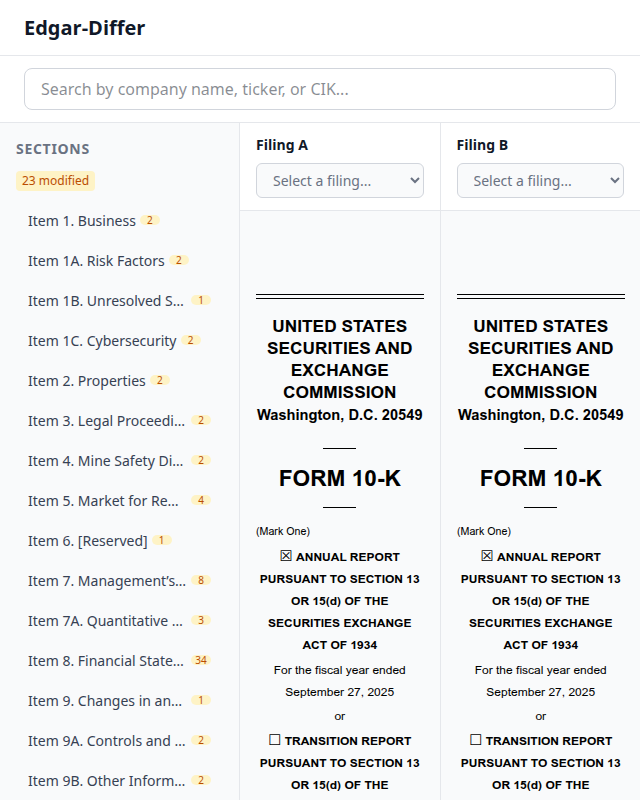
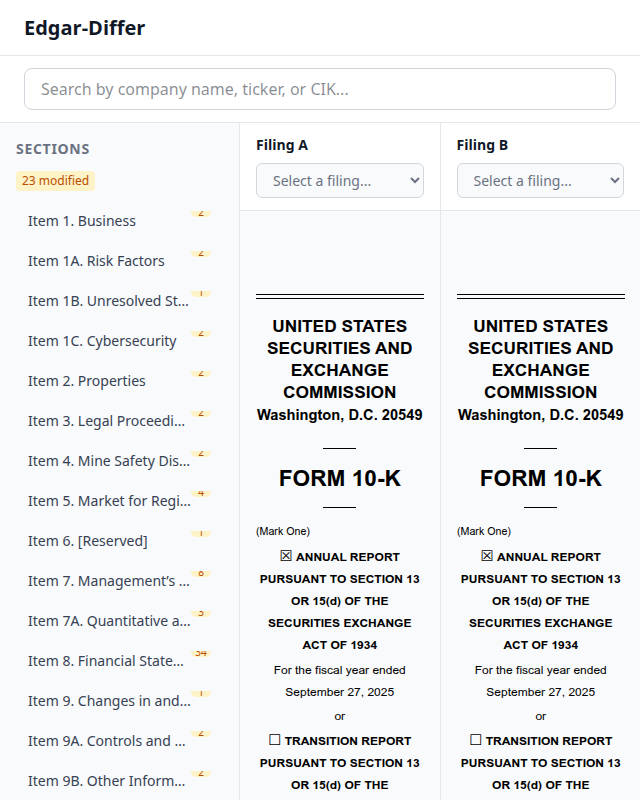
test(US-2.7): re-run UAT after absolute badge positioning fix
All 6 UAT checks pass in a single run. Badges now use absolute
positioning (absolute -top-1 right-0) to float above heading text,
preventing truncation issues. Updated screenshots and UAT doc.

diff --git a/.specs/us-2-7-change-badges/uat.md b/.specs/us-2-7-change-badges/uat.md
@@ -1,6 +1,6 @@
 # US-2.7: Section Change Badges — UAT Results
 
-**Date:** 2026-03-14 (re-run after superscript badge style fix)
+**Date:** 2026-03-14 (re-run after absolute badge positioning fix)
 **Viewport:** 1280x800 (default), 640x800 (narrow)
 **Browser:** Chrome via DevTools MCP
 **Result:** ALL CHECKS PASS
@@ -19,19 +19,19 @@
 
 **Result:** PASS
 
-![Diff summary bar showing "23 modified"](screenshots/01-full-page-1280x800.png)
+![Full page showing diff summary bar and section badges](screenshots/01-full-page-1280x800.png)
 
 ---
 
-## 2. Change Count Badges — Superscript Style
+## 2. Change Count Badges — Absolute Positioned
 
 **Action:** Inspect each section nav button.
 
 **Verify:**
-- Badges are **compact number-only pills** inline next to the heading text
-- Badges appear in **superscript style** — small (`text-[10px]`), vertically offset (`-translate-y-0.5`), rounded pill (`rounded-full`)
-- Heading text truncates with ellipsis to make room for the badge
-- Badge does not wrap or shrink (`shrink-0` on badge element)
+- Badges are **absolutely positioned** at the top-right of each heading (`absolute -top-1 right-0`)
+- Badges float above the heading text, not in the text flow
+- Heading text truncates via `pr-5` padding reservation, giving badges dedicated space
+- Compact number-only pills (`text-[10px]`, `rounded-full`)
 - Each modified section shows an amber badge with the change count number
 - Badge has amber styling (`text-amber-700 bg-amber-100`)
 - Badge `aria-label` provides full context (e.g., "2 changes") even though visible text is just the number
@@ -82,10 +82,10 @@
 **Action:** Scroll the section nav to the bottom.
 
 **Verify:**
-- Badges remain inline and visible on all sections during and after scroll
+- Badges remain visible on all sections during and after scroll
 - Nav scrolls independently from filing panels
 
-![Nav scrolled to bottom showing remaining sections with superscript badges](screenshots/03-nav-scrolled-bottom.png)
+![Nav scrolled to bottom showing remaining sections with absolute-positioned badges](screenshots/03-nav-scrolled-bottom.png)
 
 **Result:** PASS
 
@@ -97,13 +97,13 @@
 
 **Verify:**
 - Layout doesn't break
-- Section nav still visible with superscript badges
-- Heading text truncates at narrow width; compact badges remain visible
+- Section nav still visible with badges
+- Badges remain at top-right of headings at narrow width
 - No horizontal scrollbar
 - Summary bar still visible
 - All three columns still visible
 
-![Narrow viewport showing superscript badges](screenshots/02-narrow-viewport-640x800.png)
+![Narrow viewport showing absolute-positioned badges](screenshots/02-narrow-viewport-640x800.png)
 
 **Result:** PASS
 
@@ -115,7 +115,7 @@
 
 **Verify:**
 - Diff summary bar has `role="status"` and `aria-label="Diff summary"`
-- Each badge has `aria-label` with full context (e.g., "2 changes", "1 change") even though visible text is just the number
+- Each badge has `aria-label` with full context (e.g., "2 changes", "1 change")
 - Button accessible names combine heading + badge aria-label (e.g., "Item 1. Business 2 changes")
 - Navigation landmark is present with `aria-labelledby`
 
@@ -130,7 +130,7 @@
 | Check | Status |
 |-------|--------|
 | Diff summary bar renders with correct counts | PASS |
-| Superscript-style compact badges next to heading | PASS |
+| Absolute-positioned badges at top-right of heading | PASS |
 | No console errors | PASS |
 | Badges visible after scroll | PASS |
 | Responsive at 640x800 | PASS |
@@ -144,4 +144,4 @@
 
 - All sections in the sample data are `changeType='modified'`, so green ("Added") and red ("Removed") text badges are not visible in this UAT. Those badge types are verified by unit tests (SN-U14, SN-U15, SN-U18, SN-U19, SN-U28, SN-U29) and will appear when real diff data includes added/removed sections.
 - The diff summary bar only shows "23 modified" because all sample sections have the same changeType. The zero-count category suppression is verified by unit test SN-U45.
-- Badge style evolved through PR feedback: block (below heading) → inline (next to heading) → superscript (compact number-only pill, `text-[10px] rounded-full -translate-y-0.5`).
+- Badge layout evolved through PR feedback: block (below heading) → inline flex → superscript → absolute positioned (`absolute -top-1 right-0` inside `relative block truncate pr-5`).
